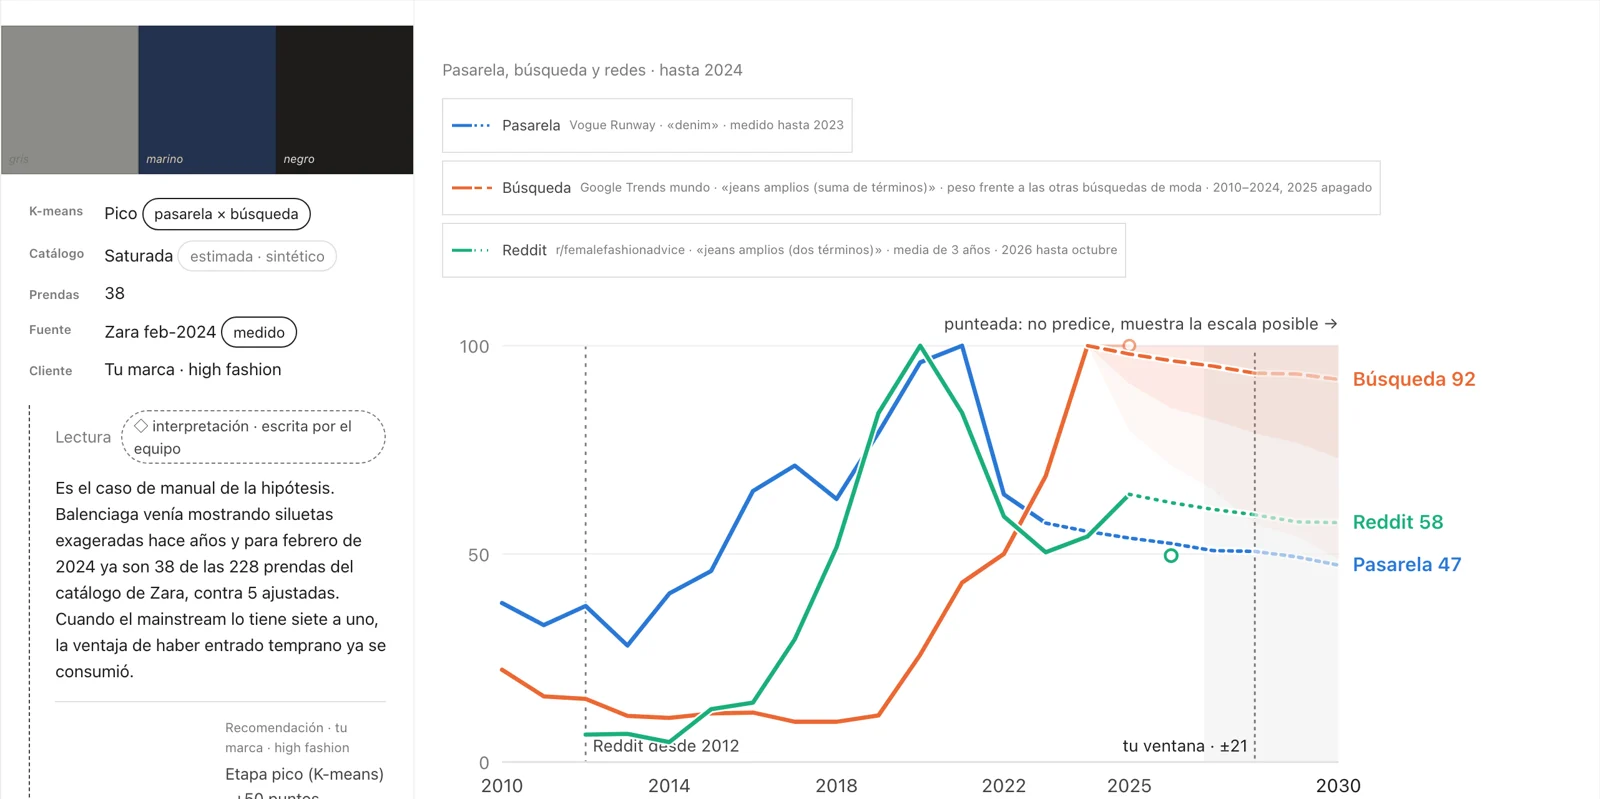
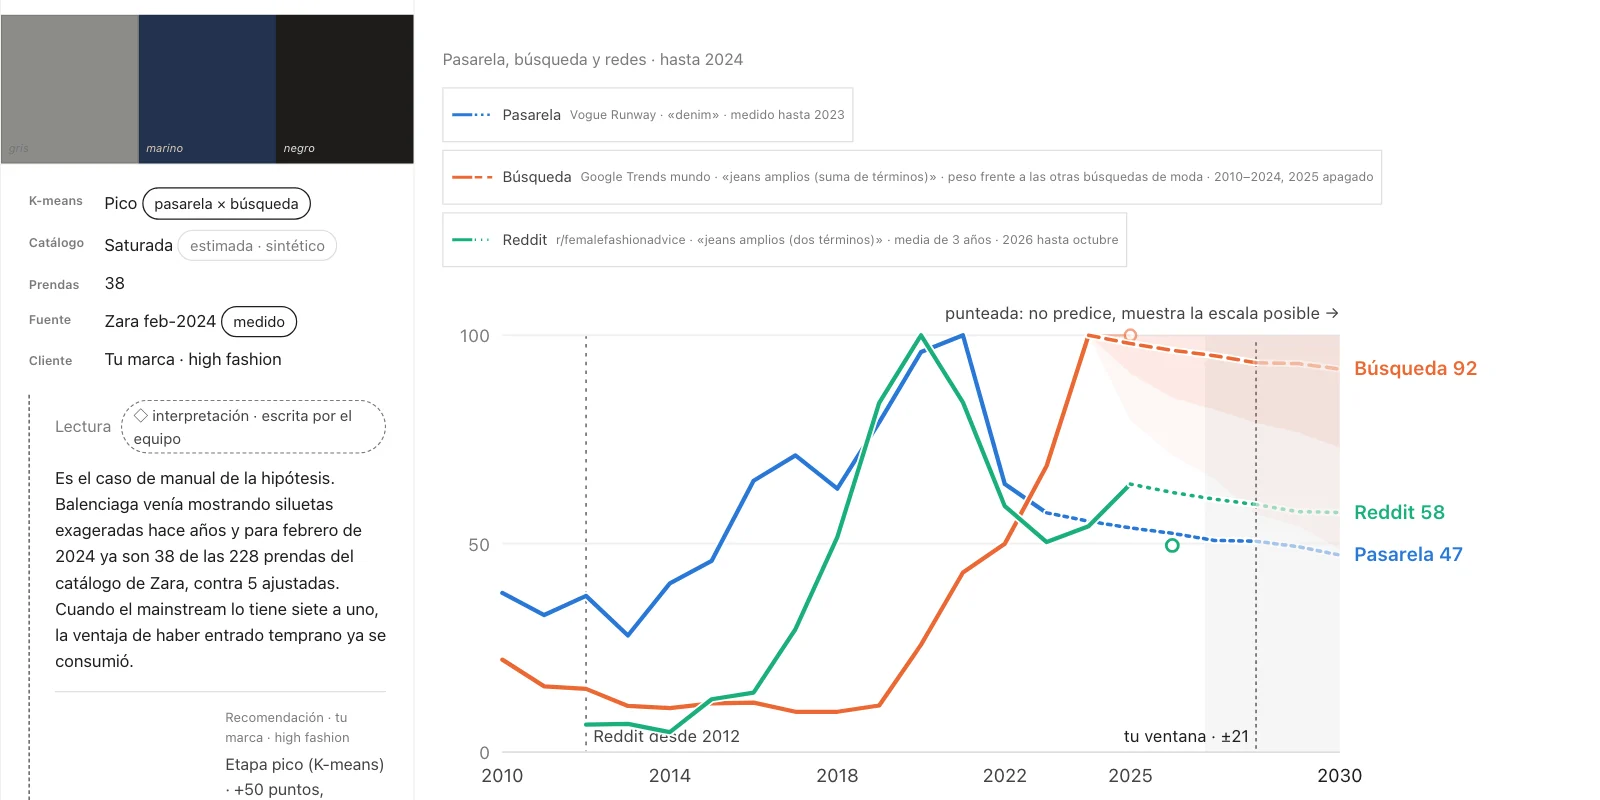
presentación: las capturas de la app, con la entrada sin bajadas y el perfil en Tendencias

diff --git a/codigo/capturar_presentacion.js b/codigo/capturar_presentacion.js
@@ -1,0 +1,48 @@
+// CICLO · las capturas de la app que usa la presentación (03/11/2026).
+// Uso, desde la raíz del repo, con la app servida (cd app && python3 -m http.server 8000):
+//   node codigo/capturar_presentacion.js [http://localhost:8000/]
+//   python3 codigo/armar_capturas_presentacion.py
+// Requiere: npm install playwright, pip install pillow.
+// Este script saca las pantallas de la app en crudo (PNG, en la carpeta temporal del sistema, ciclo_presentacion/);
+// el de Python las pega en el lado «App» de cada par y escribe los .webp de app/presentacion/capturas/.
+// Los lados «Figma» y las referencias (revista_antes, referencia_apple, figma_tarjeta_estados) no se tocan: son historia.
+const { chromium } = require('playwright');
+const fs = require('fs');
+
+const BASE = process.argv[2] || 'http://localhost:8000/';
+const OUT = require('path').join(require('os').tmpdir(), 'ciclo_presentacion');
+const PERFIL = '?c=premium&v=marca&pu=mujer';
+
+(async () => {
+  fs.mkdirSync(OUT, { recursive: true });
+  const b = await chromium.launch();
+  const abrir = async ({ ancho = 1400, alto = 900, escala = 1, vista } = {}) => {
+    const movil = ancho < 500;
+    const ctx = await b.newContext({ viewport: { width: ancho, height: alto }, colorScheme: 'light', deviceScaleFactor: escala, isMobile: movil, hasTouch: movil });
+    const p = await ctx.newPage();
+    await p.goto(BASE + (vista ? '#' + vista + PERFIL : ''), { waitUntil: 'networkidle' });
+    await p.waitForTimeout(800);
+    return p;
+  };
+  const foto = async (p, nombre, clip) => { await p.mouse.move(2, 2); await p.waitForTimeout(500); await p.screenshot({ path: `${OUT}/${nombre}.png`, clip }); console.log('·', nombre); await p.context().close(); };
+
+  // la entrada, como la ve alguien que llega por primera vez
+  await foto(await abrir(), 'app_entrada');
+  // Tendencias, con el perfil aplicado
+  await foto(await abrir({ vista: 'radar' }), 'app_tendencias');
+  // la ficha de Amplio, arriba y en el detalle de la procedencia
+  let p = await abrir({ vista: 'radar' });
+  await p.evaluate(() => abrirDetalle('amplio')); await foto(p, 'app_ficha');
+  p = await abrir({ ancho: 1440, vista: 'radar', escala: 1.25 });
+  await p.evaluate(() => abrirDetalle('amplio'));
+  const r = await p.evaluate(() => { const d = document.querySelector('#v-detalle .dcols'); window.scrollTo(0, d.getBoundingClientRect().top + scrollY - 120); const q = d.getBoundingClientRect(); return { x: q.left, y: q.top + 8 }; });
+  await foto(p, 'app_ficha_procedencia', { x: r.x, y: r.y, width: 1280, height: 640 });
+  // el celular: Tendencias y el menú abierto
+  await foto(await abrir({ ancho: 393, alto: 852, vista: 'radar' }), 'app_celular_tendencias');
+  p = await abrir({ ancho: 393, alto: 852, vista: 'radar' });
+  await p.click('#navmenu');
+  await foto(p, 'app_celular_menu');
+
+  await b.close();
+  console.log('crudo listo en ' + OUT);
+})();

diff --git a/codigo/armar_capturas_presentacion.py b/codigo/armar_capturas_presentacion.py
@@ -1,0 +1,28 @@
+# CICLO · pega las pantallas de la app (capturar_presentacion.js) en las capturas de la presentación (03/11/2026).
+# Uso, desde la raíz del repo, después de node codigo/capturar_presentacion.js:
+#   python3 codigo/armar_capturas_presentacion.py
+# Los pares Figma | App conservan el lado Figma y el rótulo; sólo se reemplaza el panel de la app.
+import os, tempfile
+from PIL import Image
+
+CRUDO = os.path.join(tempfile.gettempdir(), 'ciclo_presentacion')
+DEST = 'app/presentacion/capturas'
+
+def crudo(n): return Image.open(os.path.join(CRUDO, n + '.png')).convert('RGB')
+
+def panel(par, app, caja):
+    """caja = (x, y, ancho, alto) del panel de la app dentro del par; la captura se escala al ancho y se corta arriba"""
+    x, y, w, h = caja
+    im = Image.open(os.path.join(DEST, par + '.webp')).convert('RGB')
+    a = crudo(app); a = a.resize((w, round(a.height * w / a.width)), Image.LANCZOS).crop((0, 0, w, h))
+    im.paste(a, (x, y)); return im
+
+def guardar(im, n): im.save(os.path.join(DEST, n + '.webp'), 'WEBP', quality=86); print('·', n)
+
+guardar(panel('figma_par_portada', 'app_entrada', (740, 35, 720, 450)), 'figma_par_portada')
+guardar(panel('figma_par_radar', 'app_tendencias', (740, 35, 720, 450)), 'figma_par_radar')
+guardar(panel('figma_par_detalle', 'app_ficha', (740, 35, 720, 450)), 'figma_par_detalle')
+cel = panel('figma_par_celular', 'app_celular_tendencias', (423, 50, 393, 852))
+cel.paste(crudo('app_celular_menu').crop((0, 0, 393, 852)), (846, 50)); guardar(cel, 'figma_par_celular')
+guardar(crudo('app_tendencias'), 'tendencias')
+guardar(crudo('app_ficha_procedencia'), 'ficha_procedencia')

diff --git a/codigo/readme.md b/codigo/readme.md
@@ -10,6 +10,7 @@ Scripts de extracción, cálculo y render. Ninguno es parte del sitio: el sitio 
 | `renderizar_laminas_a_png.js` | Pasa los SVG a PNG con Playwright |
 | `capturar_pantallas_de_la_app.js` | Abre la app y guarda una captura de cada vista |
 | `capturar_recorrido.js` | El recorrido de entrada y de uso, paso a paso, con clicks de verdad → `entregas/entrega_3/recorrido/` |
+| `capturar_presentacion.js` + `armar_capturas_presentacion.py` | Las pantallas de la app que usa la presentación: saca las capturas y las pega en el lado «App» de cada par Figma \| App → `app/presentacion/capturas/` |
 | `bajar_titulos_reddit.py` | Baja los títulos de r/femalefashionadvice de un año vía Arctic Shift |
 | `contar_terminos_reddit.py` | Cuenta, por año, los posts cuyo título nombra cada término |
 | `proyectar_pasarela.py` | Elige un método por backtest y proyecta la pasarela a 2024–2026 |

diff --git a/decisiones.md b/decisiones.md
@@ -1491,3 +1491,9 @@ presentación y el QR (criterio 5).
 («Tu perfil: Mujer · Para una marca · Fast fashion · Cambiar»): antes el perfil recién se veía en la ficha. Y Preguntar
 leía como vacío un diseño que llega desde una ficha («Diseñar con esta estampa · Rayas»), porque todavía no tiene
 prenda; ahora toma el atributo fijo como diseño y le dice al modelo que falta la prenda.
+
+**Las capturas de la presentación, al día.** El lado «App» de los pares Figma | App (entrada, Tendencias, ficha,
+celular), la portada (`tendencias`) y la ficha con su procedencia se rehicieron con la app de hoy: la entrada ya sin
+bajadas y Tendencias con el perfil. El lado Figma y las referencias de antes (revista, Apple, la tarjeta en Figma) no se
+tocan, porque cuentan la historia. Las saca `codigo/capturar_presentacion.js` y las arma
+`codigo/armar_capturas_presentacion.py`.
